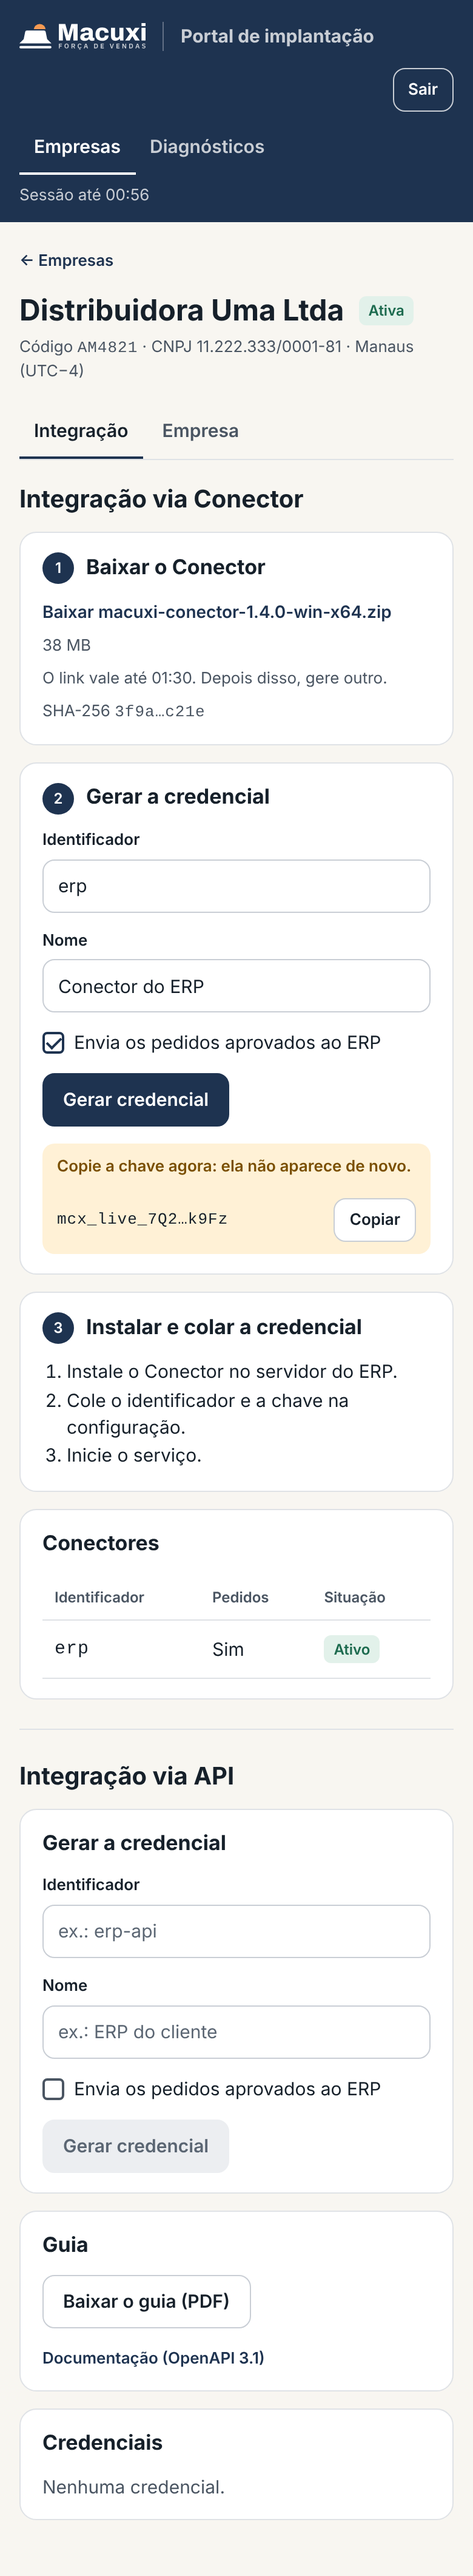
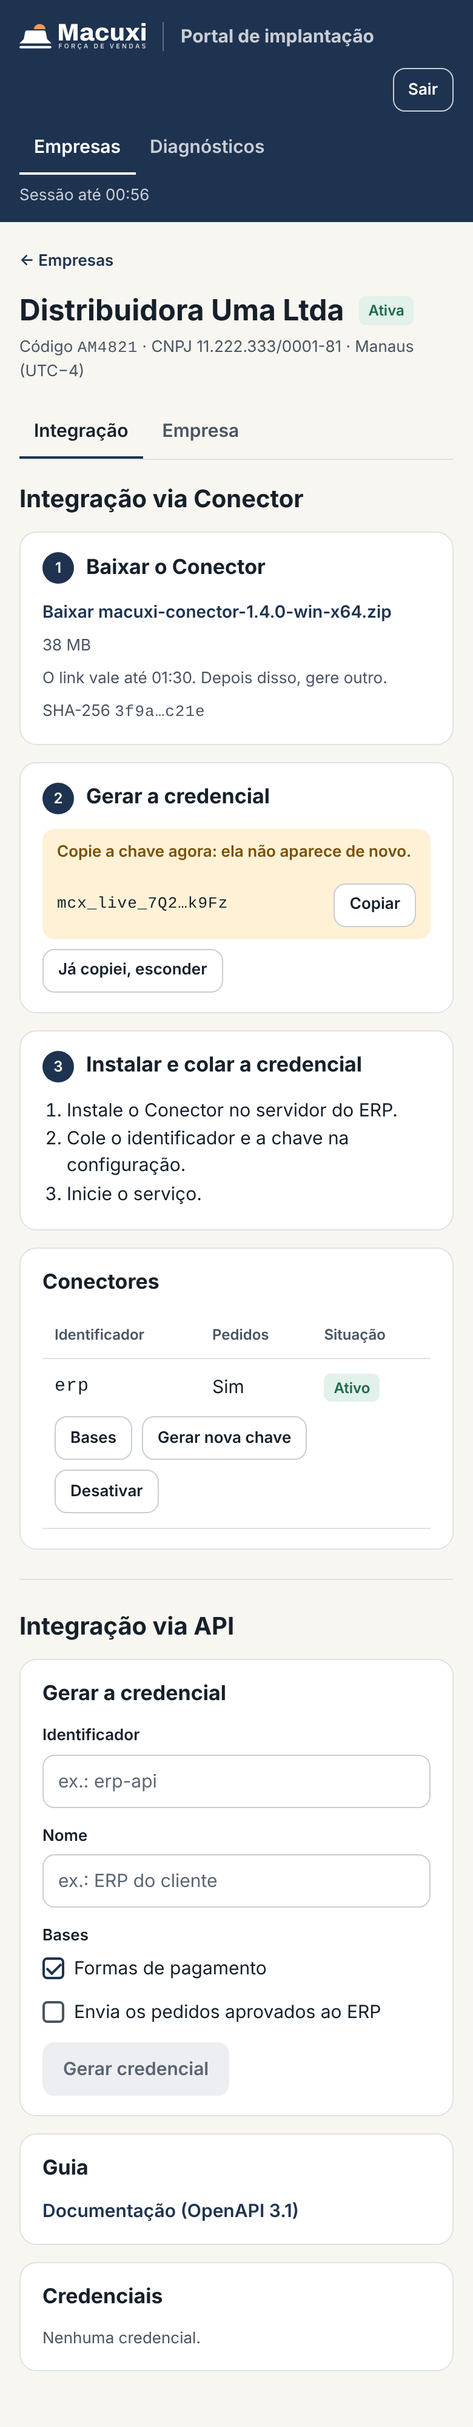
designer-ux — v1.0.23: "Promotor Avulso" no kit de adicionais e aba Integração atual na spec (MC-0164)
- R-20261122-005500-alexandre, item 2 B: nomeDoAdicional('promotor') e ADICIONAIS_DO_PLANO passam a dar
  "Promotor Avulso", como na tela aprovada docs/design/planos-assinatura/02-nova-empresa.png; "avulso" só no
  nome, nunca no preço. O módulo continua "Promotor" fora dos adicionais (modulos.tsx sem mudança).
  Comentário e teste do kit ajustados; bko-revisao.md (§P13, decisão e) e portal-config-enxuto.md §11.3
  ("Promotor Avulso · R$ 80,00 por licença/mês") com a regra nova.
- MC-0164: §10.2 de portal-config-enxuto.md e a simulação depois-05b-integracao (html e os dois png, 1280 e
  390 px, escala 2) como a aba está implementada (aba-integracao.tsx v1.0.23): chave no lugar do formulário
  com "Já copiei, esconder", "Bases" na credencial de API, botões da linha ativa embaixo dela, diálogos
  Bases, Gerar nova chave e Desativar com os textos por tipo, Guia só com o link do OpenAPI sem o PDF.

Agente: designer-ux

Claude-Session: https://claude.ai/code/session_019xHEXs75xqGq9m52u565UD

diff --git a/docs/design/telas/portal-config-enxuto/depois-05b-integracao.html b/docs/design/telas/portal-config-enxuto/depois-05b-integracao.html
@@ -1,15 +1,19 @@
 <!doctype html><html lang="pt-BR"><head><meta charset="utf-8"><meta name="viewport" content="width=device-width, initial-scale=1"><title>05b-integracao</title><link rel="stylesheet" href="portal.css"></head><body><div class="topo"><div class="in"><div class="marca"><img src="../../../marca/ativos/2026-11-12-v1/macuxi-logo-negativo-azul-noite.svg" alt="Macuxi Força de Vendas" width="104"><small>Portal de implantação</small></div><nav class="menu"><a class="ativo">Empresas</a><a class="">Diagnósticos</a></nav><span class="sessao">Sessão até 00:56</span><span class="btn s">Sair</span></div></div><main><a class="link voltar">← Empresas</a><div style="display:flex;gap:12px;align-items:center"><h1>Distribuidora Uma Ltda</h1><span class="selo">Ativa</span></div><div class="sub">Código <span class="cod">AM4821</span> · CNPJ 11.222.333/0001-81 · Manaus (UTC−4)</div><div class="abas"><span class="ativa">Integração</span><span class="">Empresa</span></div>
+<!-- MC-0164: a aba como está implementada (aba-integracao.tsx, v1.0.23): a chave recém-gerada no lugar do formulário, as bases na credencial de API e os botões da linha ativa embaixo dela -->
 <div class="lados">
 <section class="lado"><h2 class="lado-tit">Integração via Conector</h2>
 <div class="cartao passo"><h2><span class="num">1</span>Baixar o Conector</h2><a class="link" style="font-size:14px">Baixar macuxi-conector-1.4.0-win-x64.zip</a><div class="dado">38 MB</div><div class="dado">O link vale até 01:30. Depois disso, gere outro.</div><div class="dado">SHA-256 <span class="cod">3f9a…c21e</span></div></div>
-<div class="cartao passo"><h2><span class="num">2</span>Gerar a credencial</h2><div class="campos"><div class="campo"><label>Identificador</label><div class="inp">erp</div></div><div class="campo"><label>Nome</label><div class="inp">Conector do ERP</div></div></div><div style="margin:14px 0;display:flex;gap:8px;align-items:center"><span class="chk on"></span>Envia os pedidos aprovados ao ERP</div><span class="btn p">Gerar credencial</span>
-<div class="aviso w" style="margin-top:14px;justify-content:space-between"><span>Copie a chave agora: ela não aparece de novo.</span><span class="cod" style="color:var(--ink)">mcx_live_7Q2…k9Fz</span><span class="btn s">Copiar</span></div></div>
+<div class="cartao passo"><h2><span class="num">2</span>Gerar a credencial</h2>
+<div class="aviso w" style="justify-content:space-between;flex-wrap:wrap"><span>Copie a chave agora: ela não aparece de novo.</span><span class="cod" style="color:var(--ink)">mcx_live_7Q2…k9Fz</span><span class="btn s">Copiar</span></div>
+<span class="btn s" style="margin-top:8px">Já copiei, esconder</span></div>
 <div class="cartao passo"><h2><span class="num">3</span>Instalar e colar a credencial</h2><ol class="passos"><li>Instale o Conector no servidor do ERP.</li><li>Cole o identificador e a chave na configuração.</li><li>Inicie o serviço.</li></ol></div>
-<div class="cartao"><h2>Conectores</h2><table><tr><th>Identificador</th><th>Pedidos</th><th>Situação</th></tr><tr><td class="cod">erp</td><td>Sim</td><td><span class="selo">Ativo</span></td></tr></table></div>
+<div class="cartao"><h2>Conectores</h2><table><tr><th>Identificador</th><th>Pedidos</th><th>Situação</th></tr><tr><td class="cod" style="border-bottom:0">erp</td><td style="border-bottom:0">Sim</td><td style="border-bottom:0"><span class="selo">Ativo</span></td></tr><tr><td colspan="3" style="padding-top:0"><span style="display:flex;gap:8px;flex-wrap:wrap"><span class="btn s">Bases</span><span class="btn s">Gerar nova chave</span><span class="btn s">Desativar</span></span></td></tr></table></div>
 </section>
 <section class="lado"><h2 class="lado-tit">Integração via API</h2>
-<div class="cartao"><h2>Gerar a credencial</h2><div class="campos"><div class="campo"><label>Identificador</label><div class="inp vazio">ex.: erp-api</div></div><div class="campo"><label>Nome</label><div class="inp vazio">ex.: ERP do cliente</div></div></div><div style="margin:14px 0;display:flex;gap:8px;align-items:center"><span class="chk"></span>Envia os pedidos aprovados ao ERP</div><span class="btn off">Gerar credencial</span></div>
-<div class="cartao"><h2>Guia</h2><div style="display:flex;gap:16px;align-items:center;flex-wrap:wrap"><span class="btn">Baixar o guia (PDF)</span><a class="link">Documentação (OpenAPI 3.1)</a></div></div>
-<div class="cartao"><h2>Credenciais</h2><div style="color:var(--ink2)">Nenhuma credencial.</div></div>
+<div class="cartao"><h2>Gerar a credencial</h2><div class="campos"><div class="campo"><label>Identificador</label><div class="inp vazio">ex.: erp-api</div></div><div class="campo"><label>Nome</label><div class="inp vazio">ex.: ERP do cliente</div></div></div>
+<div style="margin-top:14px"><div style="font-size:13px;font-weight:600;margin-bottom:6px">Bases</div><div style="display:flex;gap:8px;align-items:center"><span class="chk on"></span>Formas de pagamento</div></div>
+<div style="margin:14px 0;display:flex;gap:8px;align-items:center"><span class="chk"></span>Envia os pedidos aprovados ao ERP</div><span class="btn off">Gerar credencial</span></div>
+<div class="cartao"><h2>Guia</h2><a class="link" style="font-size:15px">Documentação (OpenAPI 3.1)</a></div>
+<div class="cartao"><h2>Credenciais</h2><div style="color:var(--ink2);font-size:13px">Nenhuma credencial.</div></div>
 </section>
 </div></main></body></html>

diff --git a/packages/ui/src/web/adicionais.test.ts b/packages/ui/src/web/adicionais.test.ts
@@ -3,14 +3,15 @@ import { ADICIONAIS_DO_PLANO, iconeDoAdicional, nomeDoAdicional } from './adicio
 import { IconPesquisa, IconPromotor, IconTreinamento } from './icons';
 import { nomeDoModulo } from './modulos';
 
-// MC-0042 e RD-0366: um mapa só. Nome e ícone vêm do mapa dos módulos (`modulos.tsx`).
+// MC-0042 e RD-0366: um mapa só. Nome e ícone vêm do mapa dos módulos (`modulos.tsx`), exceto o nome
+// "Promotor Avulso" (R-20261122-005500-alexandre, tela aprovada 02-nova-empresa.png).
 describe('adicionais do plano', () => {
   it('cobre os três adicionais do contrato, na ordem da tela', () => {
     expect(ADICIONAIS_DO_PLANO.map((a) => a.id)).toEqual(['promotor', 'pesquisa', 'treinamento']);
   });
 
   it('nome com maiúscula e ícone próprio de cada um', () => {
-    expect(nomeDoAdicional('promotor')).toBe('Promotor');
+    expect(nomeDoAdicional('promotor')).toBe('Promotor Avulso');
     expect(nomeDoAdicional('pesquisa')).toBe('Pesquisa');
     expect(nomeDoAdicional('treinamento')).toBe('Treinamento');
     expect(iconeDoAdicional('promotor')).toBe(IconPromotor);
@@ -19,8 +20,9 @@ describe('adicionais do plano', () => {
     expect(new Set(ADICIONAIS_DO_PLANO.map((a) => a.Icone)).size).toBe(3);
   });
 
-  it('o nome é o do mapa dos módulos (RD-0366)', () => {
-    for (const a of ADICIONAIS_DO_PLANO) expect(a.nome).toBe(nomeDoModulo(a.id));
+  it('o nome é o do mapa dos módulos (RD-0366), exceto o Promotor Avulso', () => {
+    for (const a of ADICIONAIS_DO_PLANO.filter((x) => x.id !== 'promotor')) expect(a.nome).toBe(nomeDoModulo(a.id));
+    expect(nomeDoModulo('promotor')).toBe('Promotor');
   });
 
   it('id desconhecido: o nome volta como veio e sem ícone', () => {

diff --git a/packages/ui/src/web/adicionais.tsx b/packages/ui/src/web/adicionais.tsx
@@ -2,7 +2,9 @@
  * MC-0042 (pedido do dono do produto, 14/11/2026: "VALORIZE-OS"): os módulos adicionais do plano, do id do contrato
  * (`ADICIONAIS` de `planos.ts` no platform-sdk) ao nome na tela e ao ícone. Usado no portal `config.` e no BKO.
  * Spec: docs/design/telas/portal-config-enxuto.md §11.10. Nome e ícone vêm do mapa único dos módulos (`./modulos`,
- * RD-0366): "Promotor" em todo lugar ("avulso" só na linha do preço; decisão (e) da bko-revisao.md §P13).
+ * RD-0366). Exceção do nome: o adicional Promotor é "Promotor Avulso", como na tela aprovada
+ * docs/design/planos-assinatura/02-nova-empresa.png (dono do produto, R-20261122-005500-alexandre); "avulso" só no nome,
+ * nunca no preço ("R$ 80,00 por licença/mês"): uma informação, um lugar. O módulo continua "Promotor" fora dos adicionais.
  * Só rótulo e ícone: preço, quantidade e regra vêm do contrato.
  */
 import { iconeDoModulo, infoDoModulo } from './modulos';
@@ -11,7 +13,14 @@ export type AdicionalDoPlano = 'promotor' | 'pesquisa' | 'treinamento';
 
 const IDS: readonly AdicionalDoPlano[] = ['promotor', 'pesquisa', 'treinamento'];
 
-export const ADICIONAIS_DO_PLANO = IDS.map((id) => ({ id, nome: infoDoModulo(id).nome, Icone: iconeDoModulo(id) }));
+/** Nome do adicional que difere do nome do módulo (R-20261122-005500-alexandre). */
+const NOME_DO_ADICIONAL: Partial<Record<AdicionalDoPlano, string>> = { promotor: 'Promotor Avulso' };
+
+export const ADICIONAIS_DO_PLANO = IDS.map((id) => ({
+  id,
+  nome: NOME_DO_ADICIONAL[id] ?? infoDoModulo(id).nome,
+  Icone: iconeDoModulo(id),
+}));
 
 const PorId = new Map(ADICIONAIS_DO_PLANO.map((a) => [a.id, a]));
 

diff --git a/docs/design/telas/portal-config-enxuto.md b/docs/design/telas/portal-config-enxuto.md
@@ -123,22 +123,28 @@ Dois lados lado a lado, com a mesma largura (≥ 768 px), separados por uma **di
 
 **Esquerda — "Integração via Conector"** (passos numerados na ordem em que a pessoa age; o círculo do número em Azul noite `bg-accent`, texto branco, ajustado pelo MC-0024):
 1. **"Baixar o Conector"**: botão "Gerar o link do Conector"/"Gerando o link…" (texto atual de `TEXTOS_DOWNLOAD_CONECTOR`) → link **"Baixar {arquivo}"**, embaixo só **"38 MB"** (saem o nome do arquivo e a versão: os dois já estão no link; ajustado pelo P6 do corretor), **"O link vale até 01:30. Depois disso, gere outro."** e **"SHA-256 {hash}"**. Estados de erro do download sem mudança.
-2. **"Gerar a credencial"**: **Identificador** · **Nome** · caixa **"Envia os pedidos aprovados ao ERP"** · **"Gerar credencial"** (principal). Chave gerada: **"Copie a chave agora: ela não aparece de novo."** + chave + **"Copiar"**. Saem o título interno "Credencial do Conector "erp"" e o rodapé "Identificador: erp · escopo integracao.v1 · prefixo mx_…" (ajustado pelo RD-0286; o "cole na configuração" já está no passo 3).
+2. **"Gerar a credencial"**: **Identificador** (começa com "erp") · **Nome** (começa com "Conector do ERP") · caixa **"Envia os pedidos aprovados ao ERP"** (marcada) · **"Gerar credencial"** (principal). O Conector leva todas as bases livres, sem lista de escolha (a escolha fica no "Bases" da linha). Chave gerada: **no lugar do formulário**, faixa de aviso (`Notice` warning do kit) com **"Copie a chave agora: ela não aparece de novo."** + chave + **"Copiar"** (secundário pequeno; vira "Copiada"), e embaixo **"Já copiei, esconder"**, que volta ao formulário (MC-0160). Saem o título interno "Credencial do Conector "erp"" e o rodapé "Identificador: erp · escopo integracao.v1 · prefixo mx_…" (ajustado pelo RD-0286 e pelo MC-0159; o "cole na configuração" já está no passo 3).
 3. **"Instalar e colar a credencial"**: lista numerada, três linhas:
    1. **"Instale o Conector no servidor do ERP."**
    2. **"Cole o identificador e a chave na configuração."**
    3. **"Inicie o serviço."**
 
-Embaixo: **"Conectores"** — tabela **Identificador · Pedidos · Situação**; vazio **"Nenhum Conector."**
+Embaixo: **"Conectores"** — tabela **Identificador · Pedidos** ("Sim" ou "—") **· Situação** (selo "Ativo" ou "Desativado"); vazio **"Nenhum Conector."** Linha ativa: os botões pequenos vêm **numa segunda linha, embaixo dela** (cabe no lado estreito e no celular): **"Bases"** · **"Gerar nova chave"** · **"Desativar"**; o Conector de arquivo só tem "Desativar"; linha desativada, sem botões. A nova chave aparece embaixo dos botões da própria linha, com a mesma faixa de aviso do passo 2.
+- **"Bases"** abre o diálogo **"Bases do Conector {id}"** (na direita, **"Bases da credencial {id}"**): as caixas das bases livres para ele (as dele, marcadas, mais as que nenhum outro ativo recebe), na ordem de carga, em duas colunas; **"Cancelar"** · **"Gravar"** (principal; desabilitado sem nenhuma marcada; "Gravando…"). Conflito (409) mostra a mensagem da API numa faixa de erro dentro do diálogo.
+- **"Gerar nova chave"**: diálogo **"Gerar nova chave para o Conector {id}?"** (na direita, "…para a credencial {id}?"), **"A chave atual ainda funciona por pouco tempo. Troque a chave na configuração do Conector."** (na direita, "…no sistema que chama a API."), "Cancelar" · **"Gerar nova chave"** (perigo).
+- **"Desativar"**: diálogo **"Desativar o Conector {id}?"** (na direita, "Desativar a credencial {id}?"), com o que deixa de acontecer: **"Ele para de enviar as bases e de buscar os pedidos."** (sem pedidos: "Ele para de enviar as bases."); Conector de arquivo: **"A carga por CSV deixa de funcionar nesta empresa."**; credencial de API: **"As chamadas com esta chave passam a ser recusadas."**; "Cancelar" · **"Desativar"** (perigo).
 
 **Direita — "Integração via API":** (o título do lado já diz "API"; os cartões não repetem, RD-b)
-1. **"Gerar a credencial"**: os mesmos campos e textos do passo 2 da esquerda — **Identificador** · **Nome** · **"Envia os pedidos aprovados ao ERP"** · **"Gerar credencial"** (neutro) · chave gerada com o mesmo aviso e "Copiar".
+1. **"Gerar a credencial"**: **Identificador** e **Nome** vazios, com os exemplos **"ex.: erp-api"** e **"ex.: ERP do cliente"** · **"Bases"**: caixas das bases livres (nenhum Conector ou credencial ativa as recebe), todas marcadas no começo, na ordem de carga, em duas colunas; ao menos uma · **"Envia os pedidos aprovados ao ERP"** (desmarcada) · **"Gerar credencial"** (neutro) · chave gerada com a mesma faixa de aviso, "Copiar" e "Já copiei, esconder".
+   - Sem base livre: no lugar das caixas, faixa de aviso **"Todas as bases já estão em outro Conector ou credencial. Tire bases dele em "Bases" ou desative-o."** (com o Conector de arquivo ativo: **"… Desative o Conector de arquivo."**), e o "Gerar credencial" fica desabilitado.
    - Decisão (caixa de pedidos fica): pela API o ERP também busca os pedidos aprovados; a caixa diz se esta credencial pode buscá-los, igual ao Conector.
    - Decisão (botão neutro): um só principal por tela; o principal fica no Conector, que é o primeiro caminho.
 2. **"Guia"**: botão **"Baixar o guia (PDF)"** + link **"Documentação (OpenAPI 3.1)"** (o link sai do lado do Conector: uma informação, um lugar).
    - Decisão: enquanto o PDF não existir, o botão **não aparece** e o cartão fica só com o link do OpenAPI. Sem "O guia chega em breve.": a pessoa não age com esse texto.
 
-Embaixo: **"Credenciais"** — tabela **Identificador · Pedidos · Situação** (a coluna Pedidos fica, porque a caixa ficou); vazio **"Nenhuma credencial."**
+Embaixo: **"Credenciais"** — a mesma tabela e os mesmos botões da linha ativa ("Bases", "Gerar nova chave", "Desativar") dos "Conectores" (a coluna Pedidos fica, porque a caixa ficou); vazio **"Nenhuma credencial."**
+
+> MC-0164 (22/11/2026): a simulação e este §10.2 passam a mostrar a aba como está implementada em `apps/web/components/portal/aba-integracao.tsx` (v1.0.23, prints `05b`, `05c` e `05d` do engenheiro-apps): chave no lugar do formulário com "Já copiei, esconder", "Bases" na credencial de API, botões da linha ativa embaixo dela e o "Guia" só com o link do OpenAPI enquanto o PDF não existe.
 
 **Sai:** o diálogo "Passar as bases ao Conector do ERP?" inteiro (título, 3 frases, botões "Gerar só para as bases livres" e "Desativar o de arquivo e passar todas"), o tipo "Carga por arquivo" (`ROTULO_TIPO.arquivo`), "Nenhum Conector ainda. A primeira importação de CSV cria o Conector de arquivo do portal.", "O guia da API (…) chega em breve neste servidor.", "Gera a chave que o Conector…" e "Vai no arquivo de configuração do Conector."
 
@@ -207,7 +213,7 @@ Fica como está: selo **"sempre"** em Core e em Integração com o ERP. **Pergun
    - Licenças: de `licencas` (vendedor, gestor, bko), singular com 1 ("1 gestor"), "BKO" invariável; tipo com 0 não aparece (o `promotor` é 0 em todos os planos); `null` = "{tipo} sem limite".
    - **Decisão (selo "2 meses grátis"):** fica **só no alternador "Anual"** do cartão Ciclo, visível nos dois ciclos; no Anual, o cartão do plano mostra só **"R$ 6.100,00/ano"**. O pedido previa o selo também no cartão; com o do alternador seriam 5 selos iguais na mesma tela (uma informação, um lugar).
 2. **"Adicionais"**: três caixas, cada uma com caixa de marcar + **ícone do módulo** + **nome** (700, Azul noite) + preço, **o mesmo em todos os planos** (ícone e nome pelo mapa único do §11.10):
-   - **"Promotor · R$ 80,00 por licença avulsa/mês"**;
+   - **"Promotor Avulso · R$ 80,00 por licença/mês"** ("avulso" só no nome, nunca no preço; `nomeDoAdicional('promotor')` do kit, R-20261122-005500-alexandre);
    - **"Pesquisa · R$ 10,00 por usuário/mês"**;
    - **"Treinamento · R$ 10,00 por usuário/mês"**.
    - **O preço segue o ciclo** (ajustado pelo P5 do corretor): no Anual, **"R$ 800,00 por licença/ano"** e **"R$ 100,00 por usuário/ano"** (`valorDaAssinatura(plano, [{ adicional, quantidade: 1 }], ciclo)`, a parcela do adicional; nunca constante na tela).

diff --git a/docs/design/telas/bko-revisao.md b/docs/design/telas/bko-revisao.md
@@ -305,7 +305,7 @@ Clientes (RD-0365): o Cliente 360 é o detalhe do cliente, então abre pelo cliq
 3. Ligar e desligar módulo usa o `CartaoDeModulo` (ícone, nome, frase de valor e interruptor Sim/Não).
 
 **Texto final.** Nomes: Gestor, Pesquisa, Promotor, Treinamento, Vendedor (nativos: Catálogo, Core, Integração com o ERP). Frases de valor só dos contratáveis (RD-0370): Gestor "Equipe, aprovações e indicadores.", Pesquisa "Questionários na visita, com fotos e resultados.", Promotor "Gôndola, share, preço, ruptura e validade no PDV.", Treinamento "Trilhas, quizzes e ranking para a equipe de campo.", Vendedor "Pedidos e orçamentos no app.". Os nativos ficam sem frase (não aparecem em lista).
-Nome do adicional: "Promotor" em todo lugar, com "avulso" só na linha do preço (decisão e da §P13, R-20261114-205500-alexandre). `adicionais.tsx` lê nome e ícone de `modulos.tsx` (RD-0366): um mapa só.
+Nome do adicional: **"Promotor Avulso"** no plano (Nova empresa, cartão Plano, blocos de licença), como na tela aprovada `docs/design/planos-assinatura/02-nova-empresa.png`; "avulso" **só no nome**, nunca no preço ("R$ 80,00 por licença/mês"; R-20261122-005500-alexandre, substitui a decisão e da §P13 de 14/11). O módulo continua "Promotor" fora dos adicionais (licenças, perfis, cartões de módulo). `adicionais.tsx` lê nome e ícone de `modulos.tsx` (RD-0366), com só essa exceção de nome.
 Ícones: todos em `icons.tsx` (`IconVendedor`, `IconGestor`, `IconPromotor`, `IconPesquisa`, `IconTreinamento`, `IconCore`, `IconCatalogo`, `IconIntegracao` e o `IconMais` do "⋯"), com um traço só, 1,9 (RD-0367); `modulos.tsx` só mapeia o id ao ícone.
 
 **Mudam:** Licenças, Perfis (módulos do perfil), gaveta de Novo usuário, portal (`passo-empresa.tsx`, `tela-empresa.tsx`, `tela-empresas.tsx`, `cartao-equipe.tsx`).
